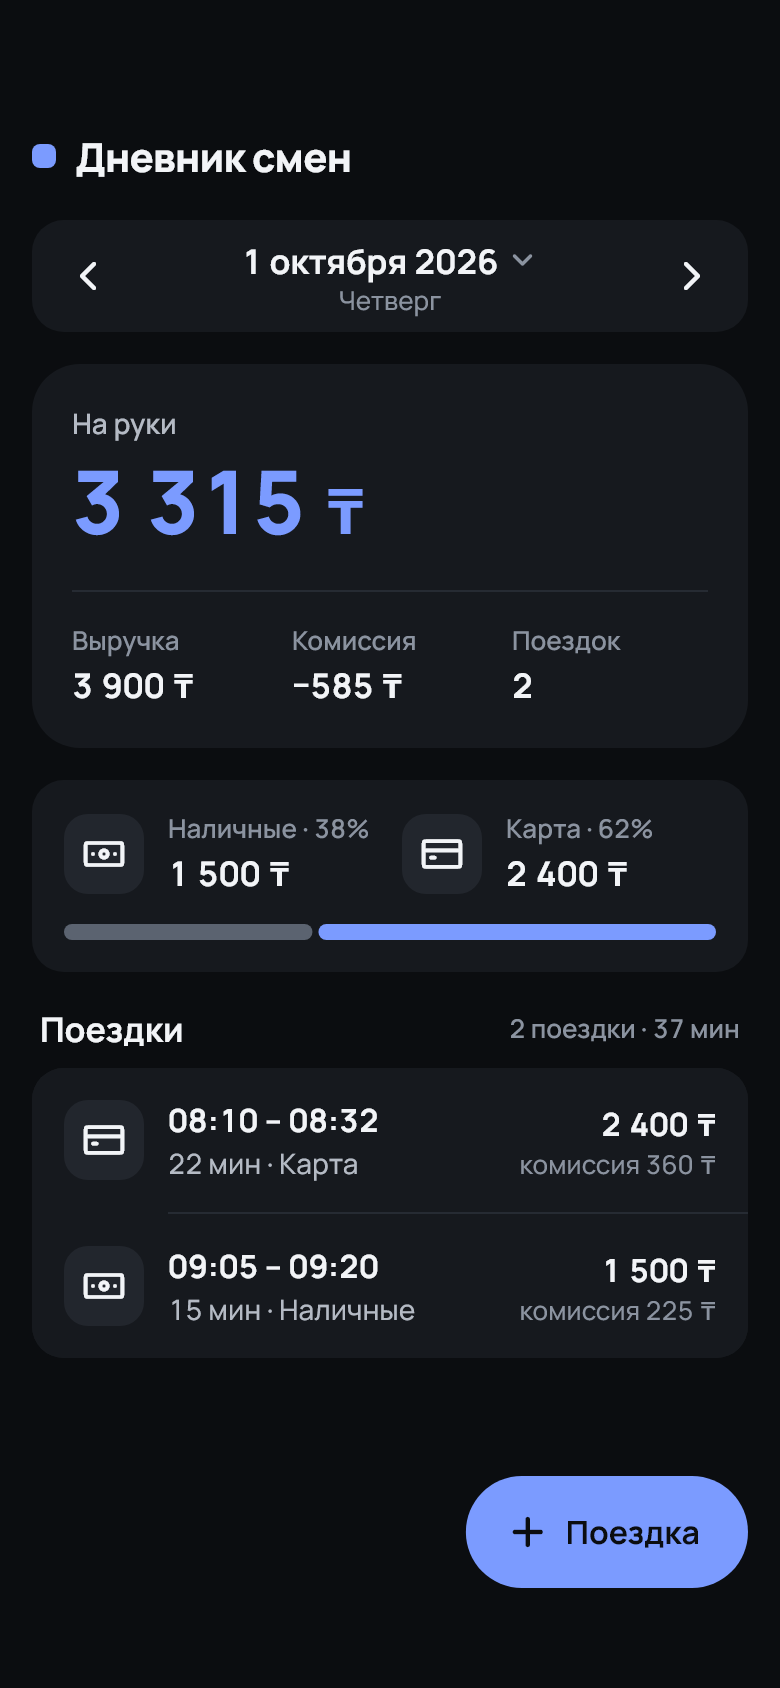
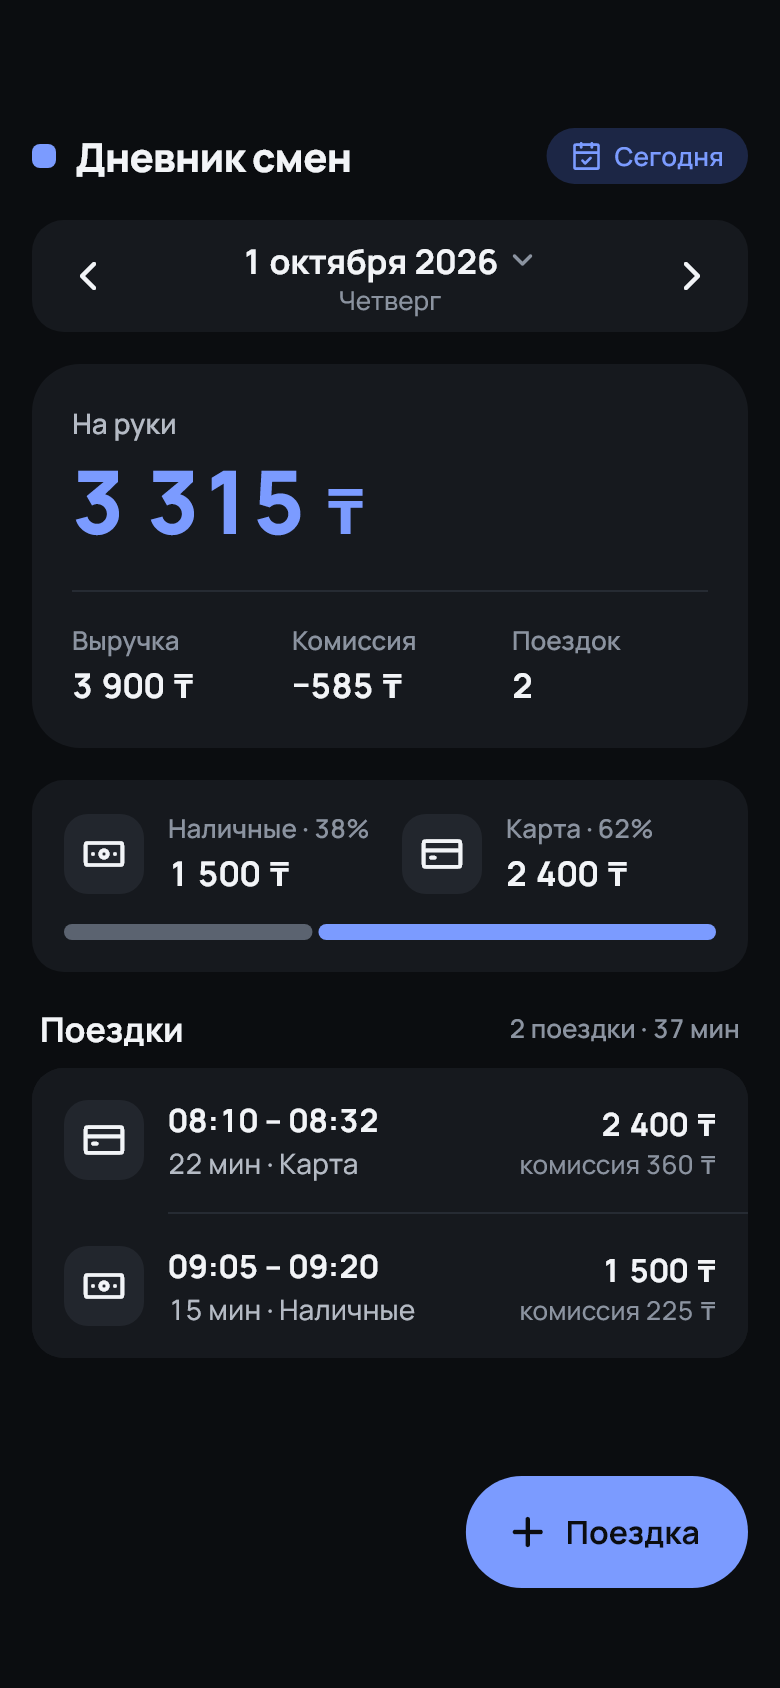
docs: record the post-redesign UI fixes and refresh screenshots

Changed region(s): [[0.7077, 0.0616, 0.9538, 0.1232]]

diff --git a/docs/DECISIONS.md b/docs/DECISIONS.md
@@ -182,3 +182,12 @@ Mockup PNG vs `DESIGN.md`: where they disagree, **DESIGN.md wins** (details and 
 - **Snackbars never cover dialogs or pickers (kit fix):** a snackbar is an `Overlay` entry above every route pushed later, and the offline snackbar covered the discard dialog and caught its taps. It now draws only while its own screen is the current route, and comes back when the dialog closes. On the Day screen the refresh-failure snackbar sits 12 dp above the FAB, never over it.
 - **Accessibility checked on the real screens:** every mockup state and every R5 state, in light and dark, meets Flutter's tap-target (48 dp), labelled-tap-target and text-contrast guidelines. The §4 spoken names («Предыдущий день», «Выбрать дату, 1 октября 2026», «Наличные 38%, карта 62%») are tested.
 
+## Post-redesign UI fixes (user feedback)
+
+- **iOS-style pickers on every platform** → the Material date and time dialogs are replaced by `DkPickerSheet` (`showDkDatePicker` / `showDkTimePicker`): a bottom sheet with a Cupertino wheel and «Готово». *Why:* the user found the Material Android pickers awkward; one wheel works the same on Android and iOS and is thumb-friendly. The date sheet has a «Сегодня» shortcut.
+- **Day data is cached per day** → `dayTripsProvider(day)` / `daySummaryProvider(day)` are families; a loaded day stays in memory for 5 min (`dayCacheTtl`) after the screen leaves it, and the Day screen loads the previous and next day in the background. *Why:* going back to a day just seen showed a skeleton again. A failed load is never cached; pull-to-refresh and a new trip reload from the server. One provider per day also means another day's totals can never show for the selected day.
+- **«Сегодня» in the header** (`DkTodayButton`, right side of the wordmark row, only while another day is shown) → one tap back to today instead of tapping › several times. Placed on the right so the wordmark keeps its spot; the future Menu button (§8.2) goes after it.
+- **One-line labels**: the payment tile label («Наличные · 17%») and the trip meta («30 мин · Наличные») scale down to fit instead of wrapping onto a second line at 360 dp. *Why:* the wrapped share read as a separate value.
+- **Dialogs are centred** (icon, title, message), max width 400. *Why:* the left-aligned discard dialog looked unbalanced.
+- **Light theme by default** (`App.themeMode = ThemeMode.light`) → the app no longer follows a dark phone setting. The dark theme stays in the kit and in the tests (they pass `ThemeMode.system`). A theme switch can go into the Menu screen planned in the next iteration.
+

diff --git a/README.md b/README.md
@@ -2,9 +2,9 @@
 
 Daily trips and payout summary for ride-hailing drivers: a Flutter app (`apps/mobile`), a design kit (`packages/design_kit`), and a FastAPI backend (`backend`).
 
-| Day (light) | Day (dark) | Add trip | No connection | 409 conflict |
-|---|---|---|---|---|
-| <img src="docs/screenshots/day_light.png" width="180"> | <img src="docs/screenshots/day_dark.png" width="180"> | <img src="docs/screenshots/add_trip.png" width="180"> | <img src="docs/screenshots/add_trip_offline.png" width="180"> | <img src="docs/screenshots/add_trip_409.png" width="180"> |
+| Day (light) | Day (dark) | Add trip | No connection | 409 conflict | Date | Time |
+|---|---|---|---|---|---|---|
+| <img src="docs/screenshots/day_light.png" width="180"> | <img src="docs/screenshots/day_dark.png" width="180"> | <img src="docs/screenshots/add_trip.png" width="180"> | <img src="docs/screenshots/add_trip_offline.png" width="180"> | <img src="docs/screenshots/add_trip_409.png" width="180"> | <img src="docs/screenshots/date_picker.png" width="180"> | <img src="docs/screenshots/time_picker.png" width="180"> |
 
 The UI follows `DESIGN.md` (variant A) and the mockups in `docs/design/`. Side-by-side comparisons are in `docs/design/audit/stage4/` and `stage5/`, and every deviation is listed in `docs/DESIGN_AUDIT.md` and `docs/DECISIONS.md`. The screenshots above are rendered by the app's own tests (see *Screenshots and goldens*).
 
